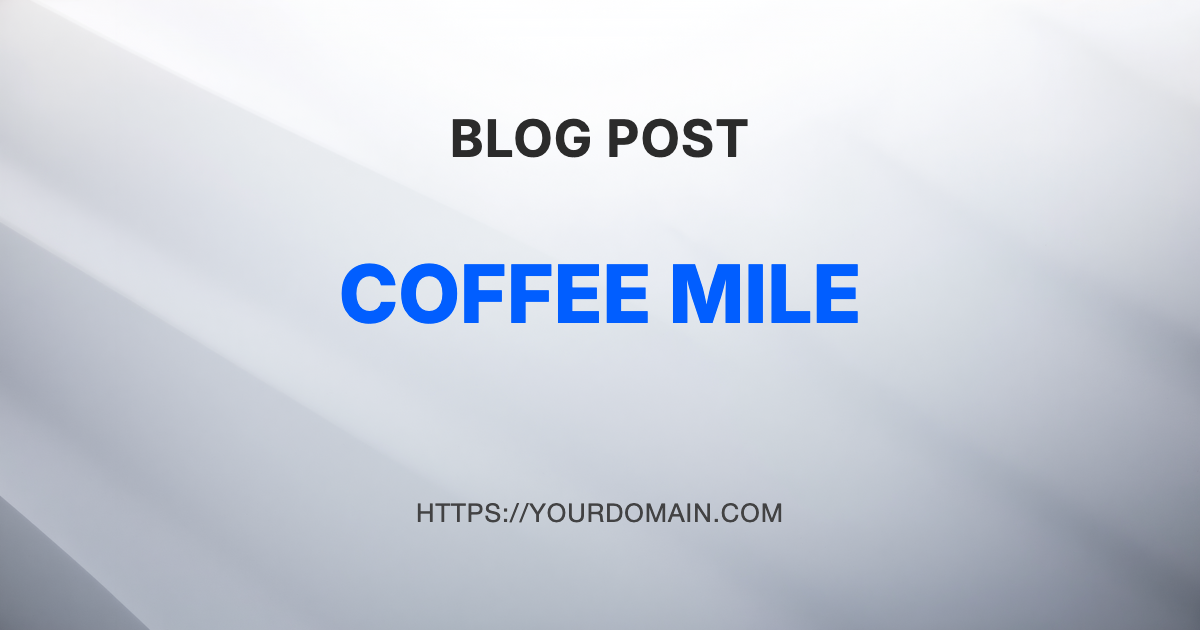
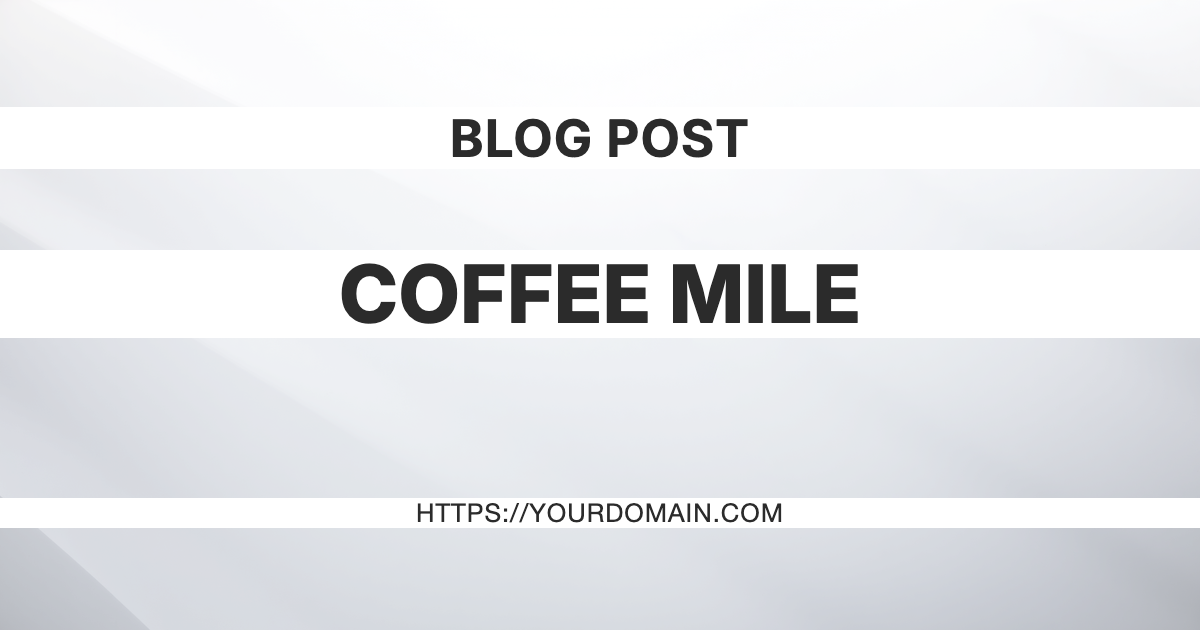
update image scripts

diff --git a/src/scripts/image-generation/generate-preview-images.ts b/src/scripts/image-generation/generate-preview-images.ts
@@ -3,16 +3,20 @@ import path from 'path';
 import puppeteer from 'puppeteer';
 import matter from 'gray-matter';
 
+const config = JSON.parse(
+  fs.readFileSync(
+    path.join(process.cwd(), 'src/scripts/image-generation/image-config.json'),
+    'utf-8',
+  ),
+);
+const previewConfig = config.preview;
+const siteUrl = config.siteUrl;
 const POSTS_DIR = path.join(process.cwd(), 'src/content/posts');
-const TEMPLATE_PATH = path.join(
-  process.cwd(),
-  'src/scripts/image-generation/preview-image-template.html',
-);
-const BG_PATH = path.join(
-  process.cwd(),
-  'src/scripts/image-generation/preview-background.png',
-);
-const OUTPUT_DIR = path.join(process.cwd(), 'public/generated_preview_images');
+const TEMPLATE_PATH = path.join(process.cwd(), previewConfig.templatePath);
+const BG_PATH = path.join(process.cwd(), previewConfig.fallbackBgPath);
+const OUTPUT_DIR = path.join(process.cwd(), previewConfig.outputDir);
+const SITE_TITLE = previewConfig.siteTitle;
+const BG_STYLE = previewConfig.bgStyle;
 
 async function getPosts() {
   const files = fs
@@ -20,13 +24,16 @@ async function getPosts() {
     .filter(f => f.endsWith('.md') || f.endsWith('.mdx'));
   return files.map(file => {
     const content = fs.readFileSync(path.join(POSTS_DIR, file), 'utf-8');
-    const { data } = matter(content);
+    const { data, content: body } = matter(content);
     const title = data.title
       ? String(data.title)
       : file.replace(/\.(md|mdx)$/, '');
     // Use slug frontmatter if present, else fallback to filename
     const id = data.slug ? String(data.slug) : file.replace(/\.(md|mdx)$/, '');
-    return { id, title };
+    // Find first image in markdown body
+    const imageMatch = body.match(/!\[[^\]]*\]\(([^)]+)\)/);
+    const imagePath = imageMatch ? imageMatch[1] : null;
+    return { id, title, imagePath };
   });
 }
 
@@ -39,7 +46,9 @@ function fillTemplate(template, { siteTitle, title, siteUrl, bgPath }) {
 }
 
 async function generatePreviewImages() {
-  if (!fs.existsSync(OUTPUT_DIR)) fs.mkdirSync(OUTPUT_DIR, { recursive: true });
+  if (!fs.existsSync(OUTPUT_DIR)) {
+    fs.mkdirSync(OUTPUT_DIR, { recursive: true });
+  }
   const posts = await getPosts();
   const browser = await puppeteer.launch({
     args: [
@@ -57,28 +66,54 @@ async function generatePreviewImages() {
     }
     // No episode number logic
     let html = fs.readFileSync(TEMPLATE_PATH, 'utf-8');
-    // Read and encode background as base64
-    const bgBuffer = fs.readFileSync(BG_PATH);
-    const ext = path.extname(BG_PATH).toLowerCase().replace('.', '');
-    const mimeType =
-      ext === 'svg' ? 'image/svg+xml' : `image/${ext === 'jpg' ? 'jpeg' : ext}`;
-    const bgBase64 = `data:${mimeType};base64,${bgBuffer.toString('base64')}`;
-    // Replace the background url in the template with an <img> tag for reliability
+    // Determine which image to use as background
+    let bgBase64 = null;
+    if (post.imagePath) {
+      // Try to resolve the image path relative to the post file
+      let resolvedPath = post.imagePath;
+      if (resolvedPath.startsWith('../../assets/')) {
+        // Convert ../../assets/foo.jpg (relative to post) to src/assets/foo.jpg (project root)
+        resolvedPath = path.join(
+          process.cwd(),
+          'src/assets',
+          resolvedPath.replace(/^\.\.\/\.\.\/assets\//, ''),
+        );
+      } else if (resolvedPath.startsWith('/src/assets/')) {
+        resolvedPath = path.join(process.cwd(), resolvedPath.slice(1));
+      } else if (resolvedPath.startsWith('/')) {
+        resolvedPath = path.join(process.cwd(), resolvedPath.slice(1));
+      } else {
+        // fallback: relative to post file
+        resolvedPath = path.join(POSTS_DIR, resolvedPath);
+      }
+      if (fs.existsSync(resolvedPath)) {
+        const ext = path.extname(resolvedPath).toLowerCase().replace('.', '');
+        const mimeType =
+          ext === 'svg'
+            ? 'image/svg+xml'
+            : `image/${ext === 'jpg' ? 'jpeg' : ext}`;
+        bgBase64 = `data:${mimeType};base64,${fs.readFileSync(resolvedPath).toString('base64')}`;
+      }
+    }
+    if (!bgBase64) {
+      // Fallback to default background
+      const bgBuffer = fs.readFileSync(BG_PATH);
+      const ext = path.extname(BG_PATH).toLowerCase().replace('.', '');
+      const mimeType =
+        ext === 'svg'
+          ? 'image/svg+xml'
+          : `image/${ext === 'jpg' ? 'jpeg' : ext}`;
+      bgBase64 = `data:${mimeType};base64,${bgBuffer.toString('base64')}`;
+    }
+    // Replace the background url in the template with an <img> tag for reliability and styling
     html = html
       .replace("background: url('%%PREVIEW_BG%%') no-repeat center center;", '')
       .replace(
         '<div class="container">',
-        `<div class="container"><img src="${bgBase64}" style="position:absolute;width:100%;height:100%;object-fit:cover;z-index:0;" />`,
+        `<div class="container"><img src="${bgBase64}" class="preview-bg" style="position:absolute;width:100%;height:100%;object-fit:cover;z-index:0;${BG_STYLE}" />`,
       );
-    // Read site URL from astro.config.mjs
-    const astroConfig = fs.readFileSync(
-      path.join(process.cwd(), 'astro.config.mjs'),
-      'utf-8',
-    );
-    const siteUrlMatch = astroConfig.match(/site:\s*['\"]([^'\"]+)['\"]/);
-    const siteUrl = siteUrlMatch ? siteUrlMatch[1] : '';
     html = fillTemplate(html, {
-      siteTitle: 'BLOG POST',
+      siteTitle: SITE_TITLE,
       title: post.title,
       siteUrl,
       bgPath: '', // Not used anymore

diff --git a/src/scripts/image-generation/generate-og-images.ts b/src/scripts/image-generation/generate-og-images.ts
@@ -20,13 +20,16 @@ async function getPosts() {
     .filter(f => f.endsWith('.md') || f.endsWith('.mdx'));
   return files.map(file => {
     const content = fs.readFileSync(path.join(POSTS_DIR, file), 'utf-8');
-    const { data } = matter(content);
+    const { data, content: body } = matter(content);
     const title = data.title
       ? String(data.title)
       : file.replace(/\.(md|mdx)$/, '');
     // Use slug frontmatter if present, else fallback to filename
     const id = data.slug ? String(data.slug) : file.replace(/\.(md|mdx)$/, '');
-    return { id, title };
+    // Find first image in markdown body
+    const imageMatch = body.match(/!\[[^\]]*\]\(([^)]+)\)/);
+    const imagePath = imageMatch ? imageMatch[1] : null;
+    return { id, title, imagePath };
   });
 }
 
@@ -52,7 +55,9 @@ function fillTemplate(
 }
 
 async function generateOGImages() {
-  if (!fs.existsSync(OUTPUT_DIR)) fs.mkdirSync(OUTPUT_DIR, { recursive: true });
+  if (!fs.existsSync(OUTPUT_DIR)) {
+    fs.mkdirSync(OUTPUT_DIR, { recursive: true });
+  }
   const posts = await getPosts();
   const browser = await puppeteer.launch({
     args: [
@@ -70,18 +75,51 @@ async function generateOGImages() {
     }
     // No episode number logic
     let html = fs.readFileSync(TEMPLATE_PATH, 'utf-8');
-    // Read and encode background as base64
-    const bgBuffer = fs.readFileSync(BG_PATH);
-    const ext = path.extname(BG_PATH).toLowerCase().replace('.', '');
-    const mimeType =
-      ext === 'svg' ? 'image/svg+xml' : `image/${ext === 'jpg' ? 'jpeg' : ext}`;
-    const bgBase64 = `data:${mimeType};base64,${bgBuffer.toString('base64')}`;
-    // Replace the background url in the template with an <img> tag for reliability
+    // Determine which image to use as background
+    let bgBase64 = null;
+    if (post.imagePath) {
+      // Try to resolve the image path relative to the post file
+      let resolvedPath = post.imagePath;
+      if (resolvedPath.startsWith('../../assets/')) {
+        // Convert ../../assets/foo.jpg (relative to post) to src/assets/foo.jpg (project root)
+        resolvedPath = path.join(
+          process.cwd(),
+          'src/assets',
+          resolvedPath.replace(/^\.\.\/\.\.\/assets\//, ''),
+        );
+      } else if (resolvedPath.startsWith('/src/assets/')) {
+        resolvedPath = path.join(process.cwd(), resolvedPath.slice(1));
+      } else if (resolvedPath.startsWith('/')) {
+        resolvedPath = path.join(process.cwd(), resolvedPath.slice(1));
+      } else {
+        // fallback: relative to post file
+        resolvedPath = path.join(POSTS_DIR, resolvedPath);
+      }
+      if (fs.existsSync(resolvedPath)) {
+        const ext = path.extname(resolvedPath).toLowerCase().replace('.', '');
+        const mimeType =
+          ext === 'svg'
+            ? 'image/svg+xml'
+            : `image/${ext === 'jpg' ? 'jpeg' : ext}`;
+        bgBase64 = `data:${mimeType};base64,${fs.readFileSync(resolvedPath).toString('base64')}`;
+      }
+    }
+    if (!bgBase64) {
+      // Fallback to default background
+      const bgBuffer = fs.readFileSync(BG_PATH);
+      const ext = path.extname(BG_PATH).toLowerCase().replace('.', '');
+      const mimeType =
+        ext === 'svg'
+          ? 'image/svg+xml'
+          : `image/${ext === 'jpg' ? 'jpeg' : ext}`;
+      bgBase64 = `data:${mimeType};base64,${bgBuffer.toString('base64')}`;
+    }
+    // Replace the background url in the template with an <img> tag for reliability and styling
     html = html
       .replace("background: url('%%OG_BG%%') no-repeat center center;", '')
       .replace(
         '<div class="container">',
-        `<div class="container"><img src="${bgBase64}" style="position:absolute;width:100%;height:100%;object-fit:cover;z-index:0;" />`,
+        `<div class="container"><img src="${bgBase64}" class="og-bg" style="position:absolute;width:100%;height:100%;object-fit:cover;z-index:0;filter: opacity(0.5);" />`,
       );
     // Read site URL from astro.config.mjs
     const astroConfig = fs.readFileSync(

diff --git a/src/scripts/image-generation/preview-image-template.html b/src/scripts/image-generation/preview-image-template.html
@@ -14,11 +14,21 @@
   }
 
   .container {
-   background: url('%%PREVIEW_BG%%'), url('preview-background.png') no-repeat center center;
-   background-size: cover;
    width: 600px;
    height: 600px;
    position: relative;
+   /* fallback background for manual preview */
+   background: url('preview-background.png') no-repeat center center;
+   background-size: cover;
+  }
+
+  .preview-bg {
+   filter: opacity(0.5);
+   position: absolute;
+   width: 100%;
+   height: 100%;
+   object-fit: cover;
+   z-index: 0;
   }
 
   .site-title {
@@ -28,6 +38,7 @@
    top: 110px;
    font-family: 'Inter', sans-serif;
    font-size: 2.0rem;
+   background-color: white;
    color: #2b2b2b;
    text-transform: uppercase;
    font-weight: 700;
@@ -40,7 +51,8 @@
    bottom: 102px;
    font-family: 'Helvetica Neue', sans-serif;
    font-size: 1.1rem;
-   color: #424243;
+   background-color: white;
+   color: #2b2b2b;
    font-weight: 400;
    text-transform: uppercase;
    text-align: center;
@@ -56,7 +68,8 @@
    top: 230px;
    font-family: 'Inter', sans-serif;
    font-size: 4.5rem;
-   color: #015eff;
+   background-color: white;
+   color: #2b2b2b;
    font-weight: 700;
    text-transform: uppercase;
    line-height: 1.1;

diff --git a/src/scripts/image-generation/social-image-template.html b/src/scripts/image-generation/social-image-template.html
@@ -14,11 +14,21 @@
   }
 
   .container {
-   background: url('%%OG_BG%%'), url('og-background.png') no-repeat center center;
-   background-size: cover;
    width: 1200px;
    height: 630px;
    position: relative;
+   /* fallback background for manual preview */
+   background: url('og-background.png') no-repeat center center;
+   background-size: cover;
+  }
+
+  .og-bg {
+   filter: opacity(0.5);
+   position: absolute;
+   width: 100%;
+   height: 100%;
+   object-fit: cover;
+   z-index: 0;
   }
 
   .site-title {
@@ -28,6 +38,7 @@
    top: 107px;
    font-family: 'Inter', sans-serif;
    font-size: 3.2rem;
+   background-color: white;
    color: #2b2b2b;
    text-transform: uppercase;
    font-weight: 700;
@@ -40,7 +51,8 @@
    bottom: 102px;
    font-family: 'Helvetica Neue', sans-serif;
    font-size: 1.6rem;
-   color: #424243;
+   background-color: white;
+   color: #2b2b2b;
    font-weight: 400;
    text-transform: uppercase;
    text-align: center;
@@ -58,7 +70,8 @@
    font-family: 'Inter', sans-serif;
    font-size: 5rem;
    font-weight: 800;
-   color: #015eff;
+   background-color: white;
+   color: #2b2b2b;
    line-height: 1.1;
    word-break: break-word;
   }
